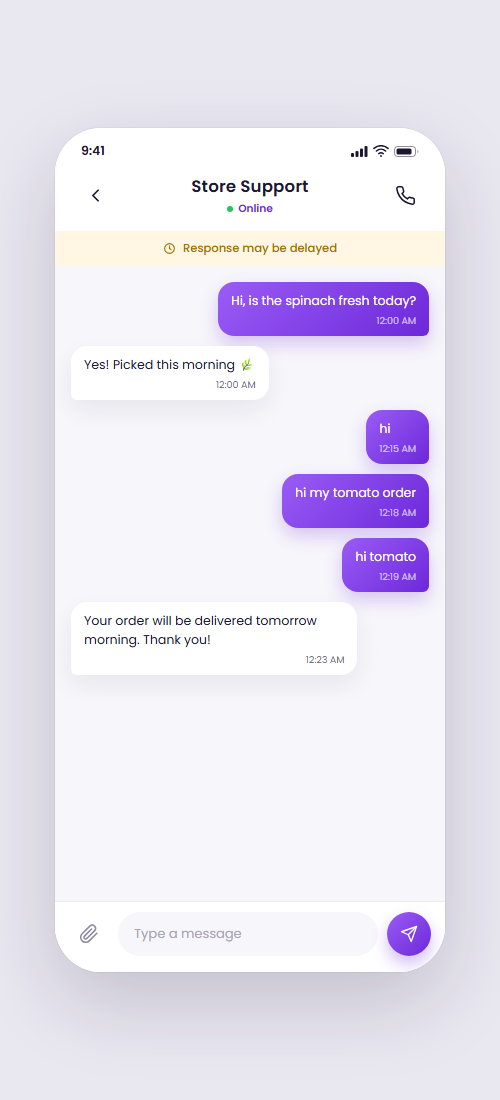
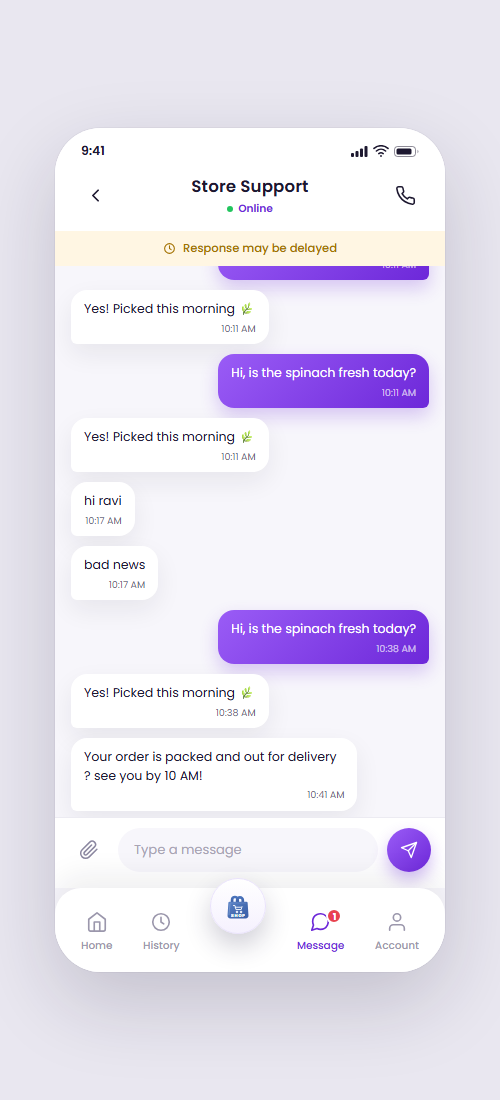
Customer chat: red unread badge on Message tab + bottom nav on chat screen
- new GET /api/chat/unread (unread admin replies per customer)
- every customer page polls it (15s) and shows a red count badge on the
  Message tab; opens chat -> marked read -> badge clears
- messages.html now includes the bottom navigation below the chat input,
  so no browser back button is needed to leave the chat
- api.js: chatUnread(); release note in previews

diff --git a/templates/messages.html b/templates/messages.html
@@ -106,6 +106,44 @@
         </button>
       </div>
 
+      <!-- ============ Bottom navigation ============ -->
+      <nav class="tabbar">
+        <a class="tab-item" href="index.html">
+          <svg viewBox="0 0 24 24" fill="none" stroke="currentColor" stroke-width="1.8" stroke-linecap="round" stroke-linejoin="round">
+            <path d="M3 9l9-7 9 7v11a2 2 0 0 1-2 2H5a2 2 0 0 1-2-2z" />
+            <path d="M9 22V12h6v10" />
+          </svg>
+          <span data-i18n="tab_home">Home</span>
+        </a>
+
+        <a class="tab-item" href="history.html">
+          <svg viewBox="0 0 24 24" fill="none" stroke="currentColor" stroke-width="1.8" stroke-linecap="round" stroke-linejoin="round">
+            <circle cx="12" cy="12" r="9" />
+            <path d="M12 7v5l3 2" />
+          </svg>
+          <span data-i18n="tab_history">History</span>
+        </a>
+
+        <a class="tab-fab" href="cart.html" aria-label="Cart — shop bag">
+          <img src="bag.svg" alt="" width="36" height="36" />
+        </a>
+
+        <a class="tab-item active" href="messages.html">
+          <svg viewBox="0 0 24 24" fill="none" stroke="currentColor" stroke-width="1.8" stroke-linecap="round" stroke-linejoin="round">
+            <path d="M21 11.5a8.38 8.38 0 0 1-.9 3.8 8.5 8.5 0 0 1-7.6 4.7 8.38 8.38 0 0 1-3.8-.9L3 21l1.9-5.7a8.38 8.38 0 0 1-.9-3.8 8.5 8.5 0 0 1 4.7-7.6 8.38 8.38 0 0 1 3.8-.9h.5a8.48 8.48 0 0 1 8 8z" />
+          </svg>
+          <span data-i18n="tab_message">Message</span>
+        </a>
+
+        <a class="tab-item" href="account.html">
+          <svg viewBox="0 0 24 24" fill="none" stroke="currentColor" stroke-width="1.8" stroke-linecap="round" stroke-linejoin="round">
+            <circle cx="12" cy="7" r="4" />
+            <path d="M20 21v-2a4 4 0 0 0-4-4H8a4 4 0 0 0-4 4v2" />
+          </svg>
+          <span data-i18n="tab_account">Account</span>
+        </a>
+      </nav>
+
     </div>
   </div>
   <script src="api.js"></script>

diff --git a/templates/app.js b/templates/app.js
@@ -1334,6 +1334,38 @@
     });
   }
 
+  /* ---------- red unread badge on the Message tab (all pages) ---------- */
+
+  var msgTabs = $$('.tab-item[href="messages.html"]');
+  if (msgTabs.length && window.TAZA) {
+    var applyMsgBadge = function (n) {
+      msgTabs.forEach(function (tab) {
+        var b = $('.tab-badge', tab);
+        if (!b) {
+          b = document.createElement('span');
+          b.className = 'tab-badge';
+          b.hidden = true;
+          tab.appendChild(b);
+        }
+        b.textContent = n;
+        b.hidden = !n;
+      });
+    };
+
+    var pollUnread = function () {
+      if (!window.TAZA.token()) { applyMsgBadge(0); return; }
+      window.TAZA.chatUnread().then(function (res) {
+        applyMsgBadge(res.unread || 0);
+      }).catch(function () { /* noop */ });
+    };
+
+    window.TAZA.available().then(function (ok) {
+      if (!ok) return;
+      pollUnread();
+      setInterval(pollUnread, 15000);
+    });
+  }
+
   /* ---------- initial paint ---------- */
 
   applyLanguage(currentLang);

diff --git a/templates/styles.css b/templates/styles.css
@@ -372,6 +372,7 @@ input[type='search']::-webkit-search-cancel-button { display: none; }
 }
 
 .tab-item {
+  position: relative;
   display: flex;
   flex-direction: column;
   align-items: center;
@@ -384,6 +385,25 @@ input[type='search']::-webkit-search-cancel-button { display: none; }
 }
 .tab-item svg { width: 22px; height: 22px; }
 .tab-item.active { color: var(--brand-strong); }
+
+/* red pending-message badge (e.g. unread admin replies) */
+.tab-badge {
+  position: absolute;
+  top: -3px;
+  right: calc(50% - 22px);
+  min-width: 16px;
+  height: 16px;
+  padding: 0 4px;
+  border-radius: 99px;
+  background: var(--danger);
+  color: #fff;
+  font-size: 9.5px;
+  font-weight: 700;
+  display: grid;
+  place-items: center;
+  border: 2px solid #fff;
+  z-index: 1;
+}
 
 .tab-fab {
   position: relative;

diff --git a/server/routes/chat.js b/server/routes/chat.js
@@ -17,6 +17,16 @@ async function myConversation(userId) {
 
 /* ---------- customer side ---------- */
 
+/* GET /api/chat/unread — red-badge count for the customer app nav */
+router.get('/unread', requireAuth, wrap(async (req, res) => {
+  const [[r]] = await db.query(
+    "SELECT COUNT(*) AS n FROM messages m JOIN conversations c ON c.id = m.conversation_id " +
+    "WHERE c.user_id = ? AND m.sender = 'admin' AND m.read_by_customer = 0",
+    [req.user.id]
+  );
+  res.json({ unread: r.n });
+}));
+
 /* GET /api/chat/my */
 router.get('/my', requireAuth, wrap(async (req, res) => {
   const convId = await myConversation(req.user.id);

diff --git a/templates/api.js b/templates/api.js
@@ -74,6 +74,7 @@
     myOrders: function () { return request('GET', '/orders'); },
 
     myChat: function () { return request('GET', '/chat/my'); },
+    chatUnread: function () { return request('GET', '/chat/unread'); },
     sendChat: function (text) { return request('POST', '/chat/my', { text: text }); },
 
     orderStatus: function (id, status) { return request('PATCH', '/orders/' + encodeURIComponent(id) + '/status', { status: status }); },
